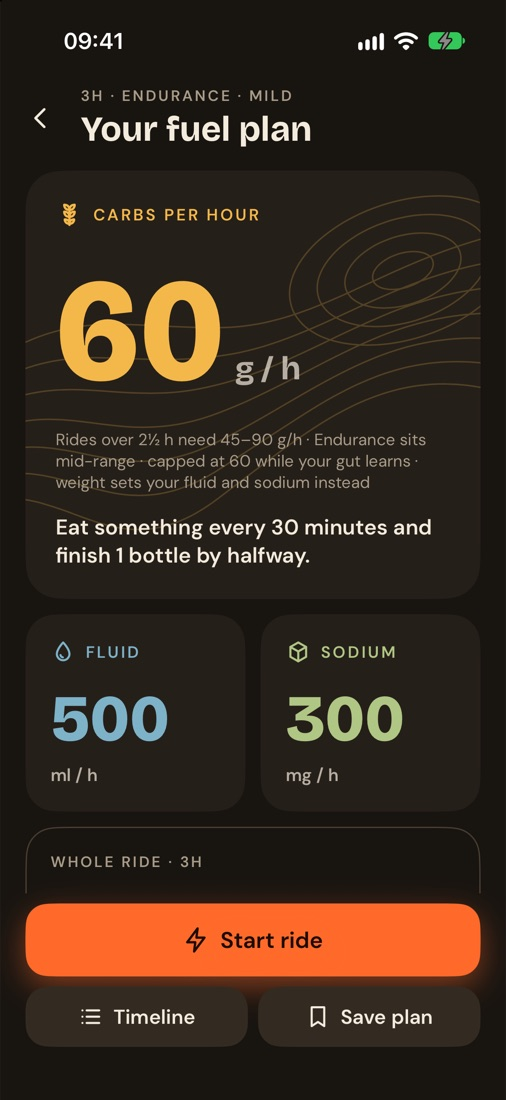
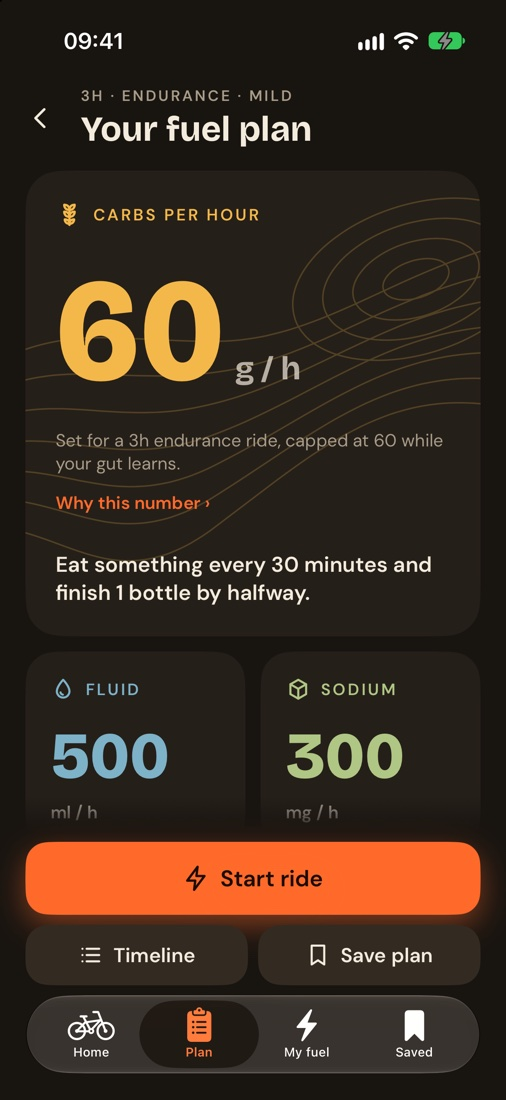
Update website: two free rides, 14-day trial, current screenshots

diff --git a/index.html b/index.html
@@ -64,8 +64,8 @@
         </div>
       </div>
       <div class="phones reveal">
-        <div class="phone back"><img src="img/route.jpg" alt="Tank’s route screen: a 24 km road ride near Sheffield with two climbs, 391 m of climbing, 1h 30 estimated"></div>
-        <div class="phone front"><img src="img/plan.jpg" alt="Tank’s fuel plan: 60 g carbs per hour, 700 ml fluid, 400 mg sodium"></div>
+        <div class="phone back"><img src="img/route.jpg" alt="Tank’s route screen: a 62 km gravel loop in the Peak District with three climbs, 1,197 m of climbing, 4h 15 estimated"></div>
+        <div class="phone front"><img src="img/plan.jpg" alt="Tank’s fuel plan: 60 g carbs per hour, 500 ml fluid, 300 mg sodium"></div>
       </div>
     </div>
   </section>
@@ -134,7 +134,7 @@
           <ul>
             <li>A reminder to drink every 20 minutes, sized to what you need</li>
             <li>Ate early? The rest of the plan moves with you</li>
-            <li>Running behind? One tap shifts what’s left</li>
+            <li>Running behind? One tap on your phone or Apple Watch shifts what’s left</li>
             <li>Eaten so far vs due by now, at a glance</li>
           </ul>
         </div>
@@ -232,12 +232,12 @@
             <li>The full timeline and pack list</li>
             <li>Your own fuel library</li>
             <li>Your first route plan</li>
-            <li>Your first ride with nudges</li>
+            <li>Your first two rides with nudges</li>
           </ul>
         </div>
         <div class="price pro reveal">
           <div class="topo"><svg><use href="#topo"/></svg></div>
-          <span class="badge">7 DAYS FREE</span>
+          <span class="badge">14 DAYS FREE</span>
           <h3>Tank Pro</h3>
           <div class="sub">Everything free, plus</div>
           <ul>

diff --git a/support.html b/support.html
@@ -74,7 +74,7 @@
     <details><summary>I ate earlier or later than planned</summary><div>Tap Done when you eat. If that’s more than a few minutes off the plan, the rest of your food and drink moves with you. Running behind on a route? Tap “I’m behind”.</div></details>
 
     <h2>Subscriptions</h2>
-    <details><summary>What’s free and what’s Pro?</summary><div>Free: quick plans, the timeline, your fuel library, your first route plan and your first ride with nudges. Pro adds every route, nudges on every ride, saved plans and plans that learn from your rides.</div></details>
+    <details><summary>What’s free and what’s Pro?</summary><div>Free: quick plans, the timeline, your fuel library, your first route plan and your first two rides with nudges. Pro adds every route, nudges on every ride, saved plans and plans that learn from your rides.</div></details>
     <details><summary>How do I cancel?</summary><div>Settings › your name › Subscriptions › Tank Pro, or Tank › Profile › Manage subscription. Cancel at least a day before renewal. Your saved plans and rides stay readable.</div></details>
     <details><summary>I changed phone. How do I get Pro back?</summary><div>Sign in with the same Apple ID, then tap Profile › Restore purchases.</div></details>
     <details><summary>How do I get a refund?</summary><div>Refunds are handled by Apple: visit reportaproblem.apple.com.</div></details>
